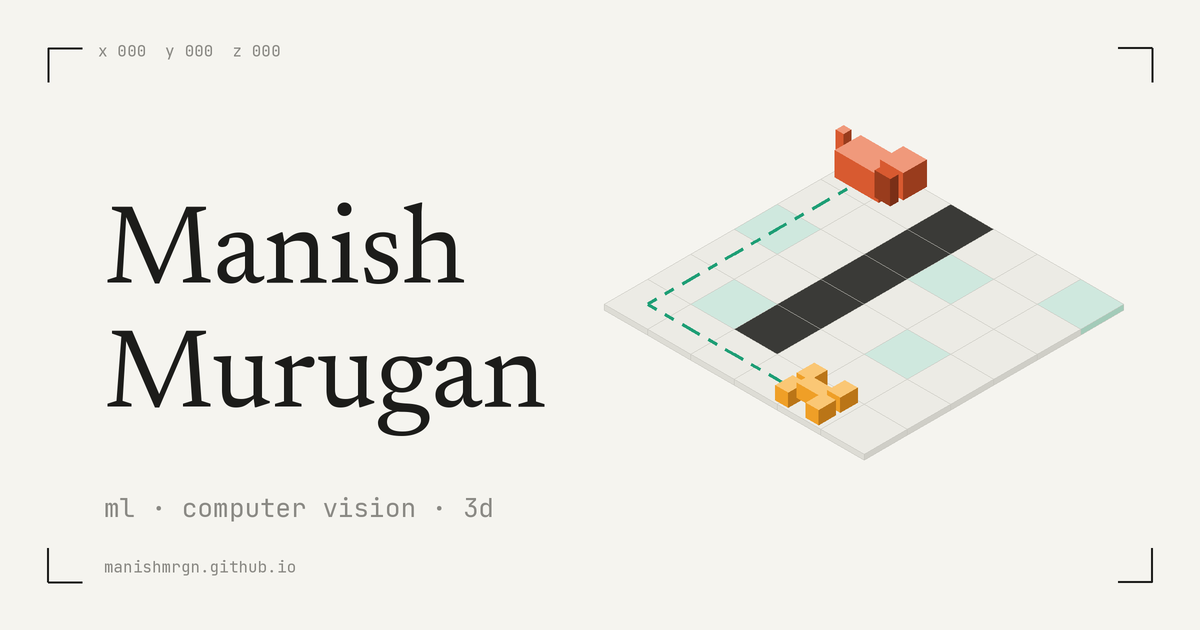
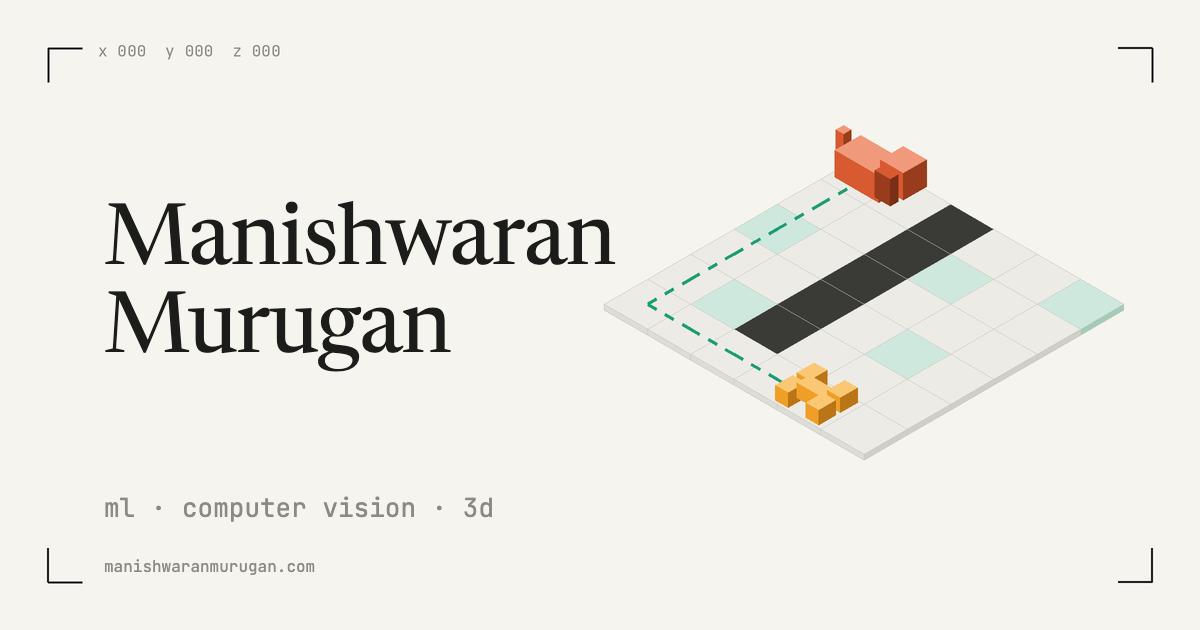
Use the full name Manishwaran Murugan everywhere; new share image
Titles, headings, link-preview tags, the 404 page and the generated
project pages now say Manishwaran Murugan ("Manish Murugan" stays as an
alternateName in the Person data for search). og-image.png redrawn with
the full name and manishwaranmurugan.com. Smoke check for the photo's alt
text updated to match.

diff --git a/index.html b/index.html
@@ -3,8 +3,8 @@
 <head>
   <meta charset="utf-8">
   <meta name="viewport" content="width=device-width, initial-scale=1">
-  <title>Manishwaran (Manish) Murugan — ml · computer vision · 3d</title>
-  <meta name="description" content="Manishwaran (Manish) Murugan — ML and computer vision engineer. 3D reconstruction, NeRFs, CUDA. Also a dog learning to find a bone.">
+  <title>Manishwaran Murugan — ml · computer vision · 3d</title>
+  <meta name="description" content="Manishwaran Murugan — ML and computer vision engineer. 3D reconstruction, NeRFs, CUDA. Also a dog learning to find a bone.">
   <meta name="color-scheme" content="light dark">
   <link rel="canonical" href="https://manishwaranmurugan.com/">
   <meta name="theme-color" id="tc-light" content="#f5f4ef" media="(prefers-color-scheme: light)">
@@ -13,16 +13,16 @@
   <link rel="icon" href="favicon.svg" type="image/svg+xml">
   <link rel="apple-touch-icon" href="apple-touch-icon.png">
   <meta property="og:type" content="website">
-  <meta property="og:site_name" content="Manish Murugan">
-  <meta property="og:title" content="Manish Murugan">
+  <meta property="og:site_name" content="Manishwaran Murugan">
+  <meta property="og:title" content="Manishwaran Murugan">
   <meta property="og:description" content="ML and computer vision engineer. Projects in 3D and reinforcement learning.">
   <meta property="og:url" content="https://manishwaranmurugan.com/">
   <meta property="og:image" content="https://manishwaranmurugan.com/og-image.png">
   <meta property="og:image:width" content="1200">
   <meta property="og:image:height" content="630">
-  <meta property="og:image:alt" content="Manish Murugan, ml, computer vision, 3d, beside an isometric voxel gridworld with a dog and a bone">
+  <meta property="og:image:alt" content="Manishwaran Murugan, ml, computer vision, 3d, beside an isometric voxel gridworld with a dog and a bone">
   <meta name="twitter:card" content="summary_large_image">
-  <meta name="twitter:title" content="Manish Murugan">
+  <meta name="twitter:title" content="Manishwaran Murugan">
   <meta name="twitter:description" content="ML and computer vision engineer. Projects in 3D and reinforcement learning.">
   <meta name="twitter:image" content="https://manishwaranmurugan.com/og-image.png">
   <link rel="preconnect" href="https://fonts.googleapis.com">
@@ -65,9 +65,9 @@
   <div class="page">
 
     <header class="masthead">
-      <img class="me" src="assets/me.jpg" width="512" height="512" alt="Manishwaran (Manish) Murugan" decoding="async">
+      <img class="me" src="assets/me.jpg" width="512" height="512" alt="Manishwaran Murugan" decoding="async">
       <div>
-        <h1>Manish Murugan</h1>
+        <h1>Manishwaran Murugan</h1>
         <p class="role">ml · computer vision · 3d</p>
       </div>
     </header>

diff --git a/projects/index.html b/projects/index.html
@@ -3,8 +3,8 @@
 <head>
   <meta charset="utf-8">
   <meta name="viewport" content="width=device-width, initial-scale=1">
-  <title>Projects — Manish Murugan</title>
-  <meta name="description" content="Selected ML, computer vision and 3D projects by Manish Murugan.">
+  <title>Projects — Manishwaran Murugan</title>
+  <meta name="description" content="Selected ML, computer vision and 3D projects by Manishwaran Murugan.">
   <meta name="color-scheme" content="light dark">
   <link rel="canonical" href="https://manishwaranmurugan.com/projects/">
   <meta name="theme-color" id="tc-light" content="#f5f4ef" media="(prefers-color-scheme: light)">
@@ -13,9 +13,9 @@
   <link rel="icon" href="../favicon.svg" type="image/svg+xml">
   <link rel="apple-touch-icon" href="../apple-touch-icon.png">
   <meta property="og:type" content="website">
-  <meta property="og:site_name" content="Manish Murugan">
-  <meta property="og:title" content="Projects — Manish Murugan">
-  <meta property="og:description" content="Selected ML, computer vision and 3D projects by Manish Murugan.">
+  <meta property="og:site_name" content="Manishwaran Murugan">
+  <meta property="og:title" content="Projects — Manishwaran Murugan">
+  <meta property="og:description" content="Selected ML, computer vision and 3D projects by Manishwaran Murugan.">
   <meta property="og:url" content="https://manishwaranmurugan.com/projects/">
   <meta property="og:image" content="https://manishwaranmurugan.com/og-image.png">
   <meta name="twitter:card" content="summary_large_image">

diff --git a/tools/build.js b/tools/build.js
@@ -33,7 +33,7 @@ function layout({ title, desc, url, image, body, b = '../', cur }) {
   <link rel="icon" href="${b}favicon.svg" type="image/svg+xml">
   <link rel="apple-touch-icon" href="${b}apple-touch-icon.png">
   <meta property="og:type" content="website">
-  <meta property="og:site_name" content="Manish Murugan">
+  <meta property="og:site_name" content="Manishwaran Murugan">
   <meta property="og:title" content="${t}">
   <meta property="og:description" content="${d}">
   <meta property="og:url" content="${esc(url)}">
@@ -93,7 +93,7 @@ function projectPage(p) {
       </article>
       ${back}`;
   return layout({
-    title: p.title + ' — Manish Murugan', desc: p.oneLiner, cur: 'projects',
+    title: p.title + ' — Manishwaran Murugan', desc: p.oneLiner, cur: 'projects',
     url: SITE + 'projects/' + p.slug + '.html',
     image: p.figures[0] ? SITE + p.figures[0].src : null, body
   });
@@ -109,7 +109,7 @@ function indexPage(projects) {
           <a href="${esc(p.slug)}.html">read more →</a>
         </li>`).join('');
   return layout({
-    title: 'Projects — Manish Murugan', desc: 'Selected ML, computer vision and 3D projects by Manish Murugan.',
+    title: 'Projects — Manishwaran Murugan', desc: 'Selected ML, computer vision and 3D projects by Manishwaran Murugan.',
     url: SITE + 'projects/', cur: 'projects',
     body: `      <h1>projects</h1>\n      <ul class="cards">${cards}\n      </ul>`
   });

diff --git a/demos.html b/demos.html
@@ -3,8 +3,8 @@
 <head>
   <meta charset="utf-8">
   <meta name="viewport" content="width=device-width, initial-scale=1">
-  <title>Demos — Manish Murugan</title>
-  <meta name="description" content="Interactive demos by Manish Murugan.">
+  <title>Demos — Manishwaran Murugan</title>
+  <meta name="description" content="Interactive demos by Manishwaran Murugan.">
   <meta name="color-scheme" content="light dark">
   <link rel="canonical" href="https://manishwaranmurugan.com/demos.html">
   <meta name="theme-color" id="tc-light" content="#f5f4ef" media="(prefers-color-scheme: light)">
@@ -13,9 +13,9 @@
   <link rel="icon" href="favicon.svg" type="image/svg+xml">
   <link rel="apple-touch-icon" href="apple-touch-icon.png">
   <meta property="og:type" content="website">
-  <meta property="og:site_name" content="Manish Murugan">
-  <meta property="og:title" content="Demos — Manish Murugan">
-  <meta property="og:description" content="Interactive demos by Manish Murugan.">
+  <meta property="og:site_name" content="Manishwaran Murugan">
+  <meta property="og:title" content="Demos — Manishwaran Murugan">
+  <meta property="og:description" content="Interactive demos by Manishwaran Murugan.">
   <meta property="og:url" content="https://manishwaranmurugan.com/demos.html">
   <meta property="og:image" content="https://manishwaranmurugan.com/og-image.png">
   <meta name="twitter:card" content="summary_large_image">

diff --git a/projects/raster.html b/projects/raster.html
@@ -3,7 +3,7 @@
 <head>
   <meta charset="utf-8">
   <meta name="viewport" content="width=device-width, initial-scale=1">
-  <title>True-scale 3D from drones — Manish Murugan</title>
+  <title>True-scale 3D from drones — Manishwaran Murugan</title>
   <meta name="description" content="Marker detection and 3D cleanup that give drone reconstructions real-world scale.">
   <meta name="color-scheme" content="light dark">
   <link rel="canonical" href="https://manishwaranmurugan.com/projects/raster.html">
@@ -13,8 +13,8 @@
   <link rel="icon" href="../favicon.svg" type="image/svg+xml">
   <link rel="apple-touch-icon" href="../apple-touch-icon.png">
   <meta property="og:type" content="website">
-  <meta property="og:site_name" content="Manish Murugan">
-  <meta property="og:title" content="True-scale 3D from drones — Manish Murugan">
+  <meta property="og:site_name" content="Manishwaran Murugan">
+  <meta property="og:title" content="True-scale 3D from drones — Manishwaran Murugan">
   <meta property="og:description" content="Marker detection and 3D cleanup that give drone reconstructions real-world scale.">
   <meta property="og:url" content="https://manishwaranmurugan.com/projects/raster.html">
   <meta property="og:image" content="https://manishwaranmurugan.com/assets/projects/raster/pipeline.jpg">

diff --git a/projects/price-forecasting.html b/projects/price-forecasting.html
@@ -3,7 +3,7 @@
 <head>
   <meta charset="utf-8">
   <meta name="viewport" content="width=device-width, initial-scale=1">
-  <title>Price forecasting — Manish Murugan</title>
+  <title>Price forecasting — Manishwaran Murugan</title>
   <meta name="description" content="Time series price forecasting for an agri business, with Type-2 fuzzy logic regression.">
   <meta name="color-scheme" content="light dark">
   <link rel="canonical" href="https://manishwaranmurugan.com/projects/price-forecasting.html">
@@ -13,8 +13,8 @@
   <link rel="icon" href="../favicon.svg" type="image/svg+xml">
   <link rel="apple-touch-icon" href="../apple-touch-icon.png">
   <meta property="og:type" content="website">
-  <meta property="og:site_name" content="Manish Murugan">
-  <meta property="og:title" content="Price forecasting — Manish Murugan">
+  <meta property="og:site_name" content="Manishwaran Murugan">
+  <meta property="og:title" content="Price forecasting — Manishwaran Murugan">
   <meta property="og:description" content="Time series price forecasting for an agri business, with Type-2 fuzzy logic regression.">
   <meta property="og:url" content="https://manishwaranmurugan.com/projects/price-forecasting.html">
   <meta property="og:image" content="https://manishwaranmurugan.com/og-image.png">

diff --git a/projects/agent-harness.html b/projects/agent-harness.html
@@ -3,7 +3,7 @@
 <head>
   <meta charset="utf-8">
   <meta name="viewport" content="width=device-width, initial-scale=1">
-  <title>Qwen3 agent harness — Manish Murugan</title>
+  <title>Qwen3 agent harness — Manishwaran Murugan</title>
   <meta name="description" content="A harness that runs a Qwen3 32B agent with sandboxed code and context compaction.">
   <meta name="color-scheme" content="light dark">
   <link rel="canonical" href="https://manishwaranmurugan.com/projects/agent-harness.html">
@@ -13,8 +13,8 @@
   <link rel="icon" href="../favicon.svg" type="image/svg+xml">
   <link rel="apple-touch-icon" href="../apple-touch-icon.png">
   <meta property="og:type" content="website">
-  <meta property="og:site_name" content="Manish Murugan">
-  <meta property="og:title" content="Qwen3 agent harness — Manish Murugan">
+  <meta property="og:site_name" content="Manishwaran Murugan">
+  <meta property="og:title" content="Qwen3 agent harness — Manishwaran Murugan">
   <meta property="og:description" content="A harness that runs a Qwen3 32B agent with sandboxed code and context compaction.">
   <meta property="og:url" content="https://manishwaranmurugan.com/projects/agent-harness.html">
   <meta property="og:image" content="https://manishwaranmurugan.com/og-image.png">

diff --git a/projects/debris.html b/projects/debris.html
@@ -3,7 +3,7 @@
 <head>
   <meta charset="utf-8">
   <meta name="viewport" content="width=device-width, initial-scale=1">
-  <title>Beach trash from the air — Manish Murugan</title>
+  <title>Beach trash from the air — Manishwaran Murugan</title>
   <meta name="description" content="Spotting coastal debris in drone images with YOLOv8 and Wise-IoU.">
   <meta name="color-scheme" content="light dark">
   <link rel="canonical" href="https://manishwaranmurugan.com/projects/debris.html">
@@ -13,8 +13,8 @@
   <link rel="icon" href="../favicon.svg" type="image/svg+xml">
   <link rel="apple-touch-icon" href="../apple-touch-icon.png">
   <meta property="og:type" content="website">
-  <meta property="og:site_name" content="Manish Murugan">
-  <meta property="og:title" content="Beach trash from the air — Manish Murugan">
+  <meta property="og:site_name" content="Manishwaran Murugan">
+  <meta property="og:title" content="Beach trash from the air — Manishwaran Murugan">
   <meta property="og:description" content="Spotting coastal debris in drone images with YOLOv8 and Wise-IoU.">
   <meta property="og:url" content="https://manishwaranmurugan.com/projects/debris.html">
   <meta property="og:image" content="https://manishwaranmurugan.com/assets/projects/debris/detections.jpg">

diff --git a/projects/ai-town.html b/projects/ai-town.html
@@ -3,7 +3,7 @@
 <head>
   <meta charset="utf-8">
   <meta name="viewport" content="width=device-width, initial-scale=1">
-  <title>AI-Town narrative sim — Manish Murugan</title>
+  <title>AI-Town narrative sim — Manishwaran Murugan</title>
   <meta name="description" content="An AI-Town fantasy world where NPC conversations turn into story events.">
   <meta name="color-scheme" content="light dark">
   <link rel="canonical" href="https://manishwaranmurugan.com/projects/ai-town.html">
@@ -13,8 +13,8 @@
   <link rel="icon" href="../favicon.svg" type="image/svg+xml">
   <link rel="apple-touch-icon" href="../apple-touch-icon.png">
   <meta property="og:type" content="website">
-  <meta property="og:site_name" content="Manish Murugan">
-  <meta property="og:title" content="AI-Town narrative sim — Manish Murugan">
+  <meta property="og:site_name" content="Manishwaran Murugan">
+  <meta property="og:title" content="AI-Town narrative sim — Manishwaran Murugan">
   <meta property="og:description" content="An AI-Town fantasy world where NPC conversations turn into story events.">
   <meta property="og:url" content="https://manishwaranmurugan.com/projects/ai-town.html">
   <meta property="og:image" content="https://manishwaranmurugan.com/og-image.png">

diff --git a/projects/sft-data.html b/projects/sft-data.html
@@ -3,7 +3,7 @@
 <head>
   <meta charset="utf-8">
   <meta name="viewport" content="width=device-width, initial-scale=1">
-  <title>Synthetic SFT data — Manish Murugan</title>
+  <title>Synthetic SFT data — Manishwaran Murugan</title>
   <meta name="description" content="Generating fine-tuning data for a domain-specific LLM tool-calling assistant.">
   <meta name="color-scheme" content="light dark">
   <link rel="canonical" href="https://manishwaranmurugan.com/projects/sft-data.html">
@@ -13,8 +13,8 @@
   <link rel="icon" href="../favicon.svg" type="image/svg+xml">
   <link rel="apple-touch-icon" href="../apple-touch-icon.png">
   <meta property="og:type" content="website">
-  <meta property="og:site_name" content="Manish Murugan">
-  <meta property="og:title" content="Synthetic SFT data — Manish Murugan">
+  <meta property="og:site_name" content="Manishwaran Murugan">
+  <meta property="og:title" content="Synthetic SFT data — Manishwaran Murugan">
   <meta property="og:description" content="Generating fine-tuning data for a domain-specific LLM tool-calling assistant.">
   <meta property="og:url" content="https://manishwaranmurugan.com/projects/sft-data.html">
   <meta property="og:image" content="https://manishwaranmurugan.com/og-image.png">

diff --git a/404.html b/404.html
@@ -4,7 +4,7 @@
 <meta charset="utf-8">
 <meta name="viewport" content="width=device-width, initial-scale=1">
 <meta name="robots" content="noindex">
-<title>404 · Manish Murugan</title>
+<title>404 · Manishwaran Murugan</title>
 <meta name="theme-color" content="#f5f4ef">
 <link rel="icon" href="/favicon.svg" type="image/svg+xml">
 <link rel="preconnect" href="https://fonts.googleapis.com">

diff --git a/tests/smoke.py b/tests/smoke.py
@@ -743,7 +743,7 @@ def split_checks(browser):
     # photo + showcase intro + theme switch
     page = open_page(browser, DESKTOP_VIEWPORT)
     me = page.evaluate("(() => { const i = document.querySelector('.masthead .me'), r = i.getBoundingClientRect(), h = document.querySelector('.masthead h1').getBoundingClientRect(); return { ok: i.complete && i.naturalWidth > 0, w: r.width, h: r.height, left: r.right <= h.left, alt: i.alt }; })()")
-    check("masthead: photo loads, square, 96-104px, left of the name, alt text", me["ok"] and me["w"] == me["h"] and 96 <= me["w"] <= 104 and me["left"] and me["alt"] == "Manish Murugan", str(me))
+    check("masthead: photo loads, square, 96-104px, left of the name, alt text", me["ok"] and me["w"] == me["h"] and 96 <= me["w"] <= 104 and me["left"] and me["alt"] == "Manishwaran Murugan", str(me))
     si = page.evaluate("(() => { const p = document.querySelector('.showcase-intro'), r = p.getBoundingClientRect(), t = document.querySelector('.tabrow').getBoundingClientRect(); return { above: r.bottom <= t.top, lines: Math.round(r.height / parseFloat(getComputedStyle(p).lineHeight)), outside: !p.closest('[role=tabpanel]'), live: p.closest('[aria-live]') !== null, tab: p.tabIndex }; })()")
     check("showcase intro: above the tab row, outside the panels, <= 2 lines, not focusable, no aria-live", si["above"] and si["outside"] and si["lines"] <= 2 and not si["live"] and si["tab"] == -1, str(si))
     tok = "['paper','ink','ink-2','ink-3','accent-text','dog-text'].map(n => getComputedStyle(document.documentElement).getPropertyValue('--' + n).trim()).join()"
